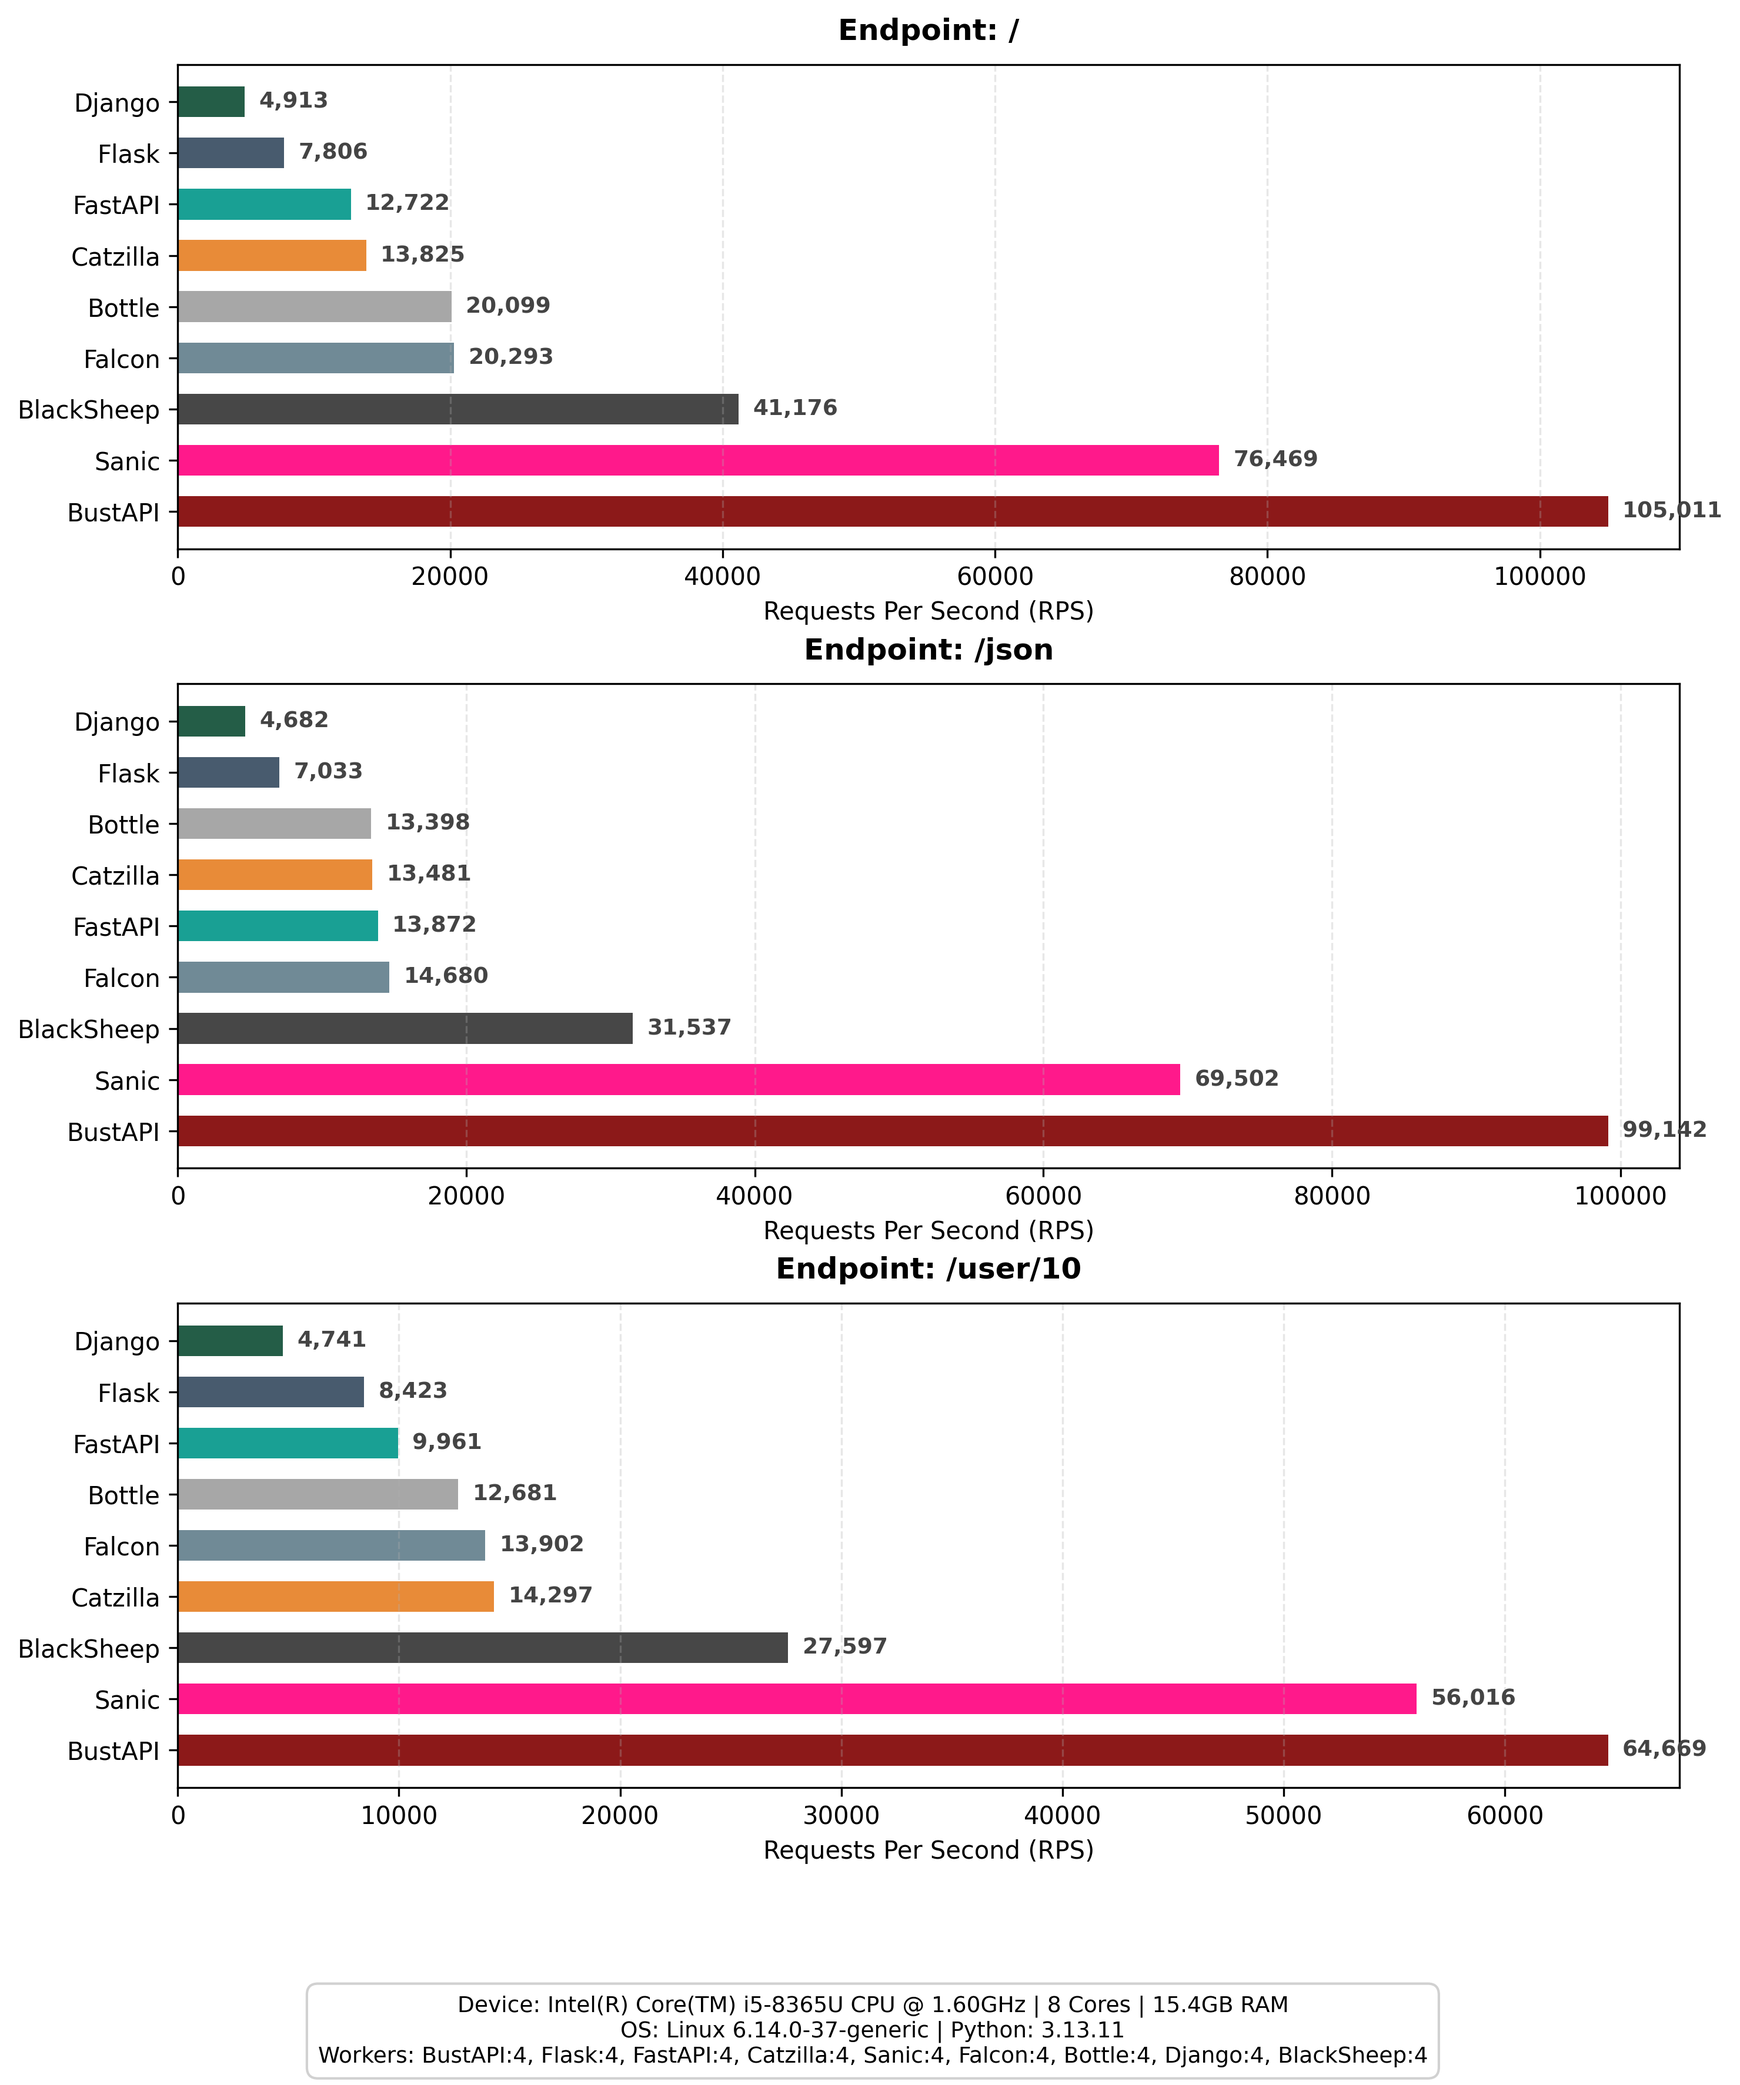
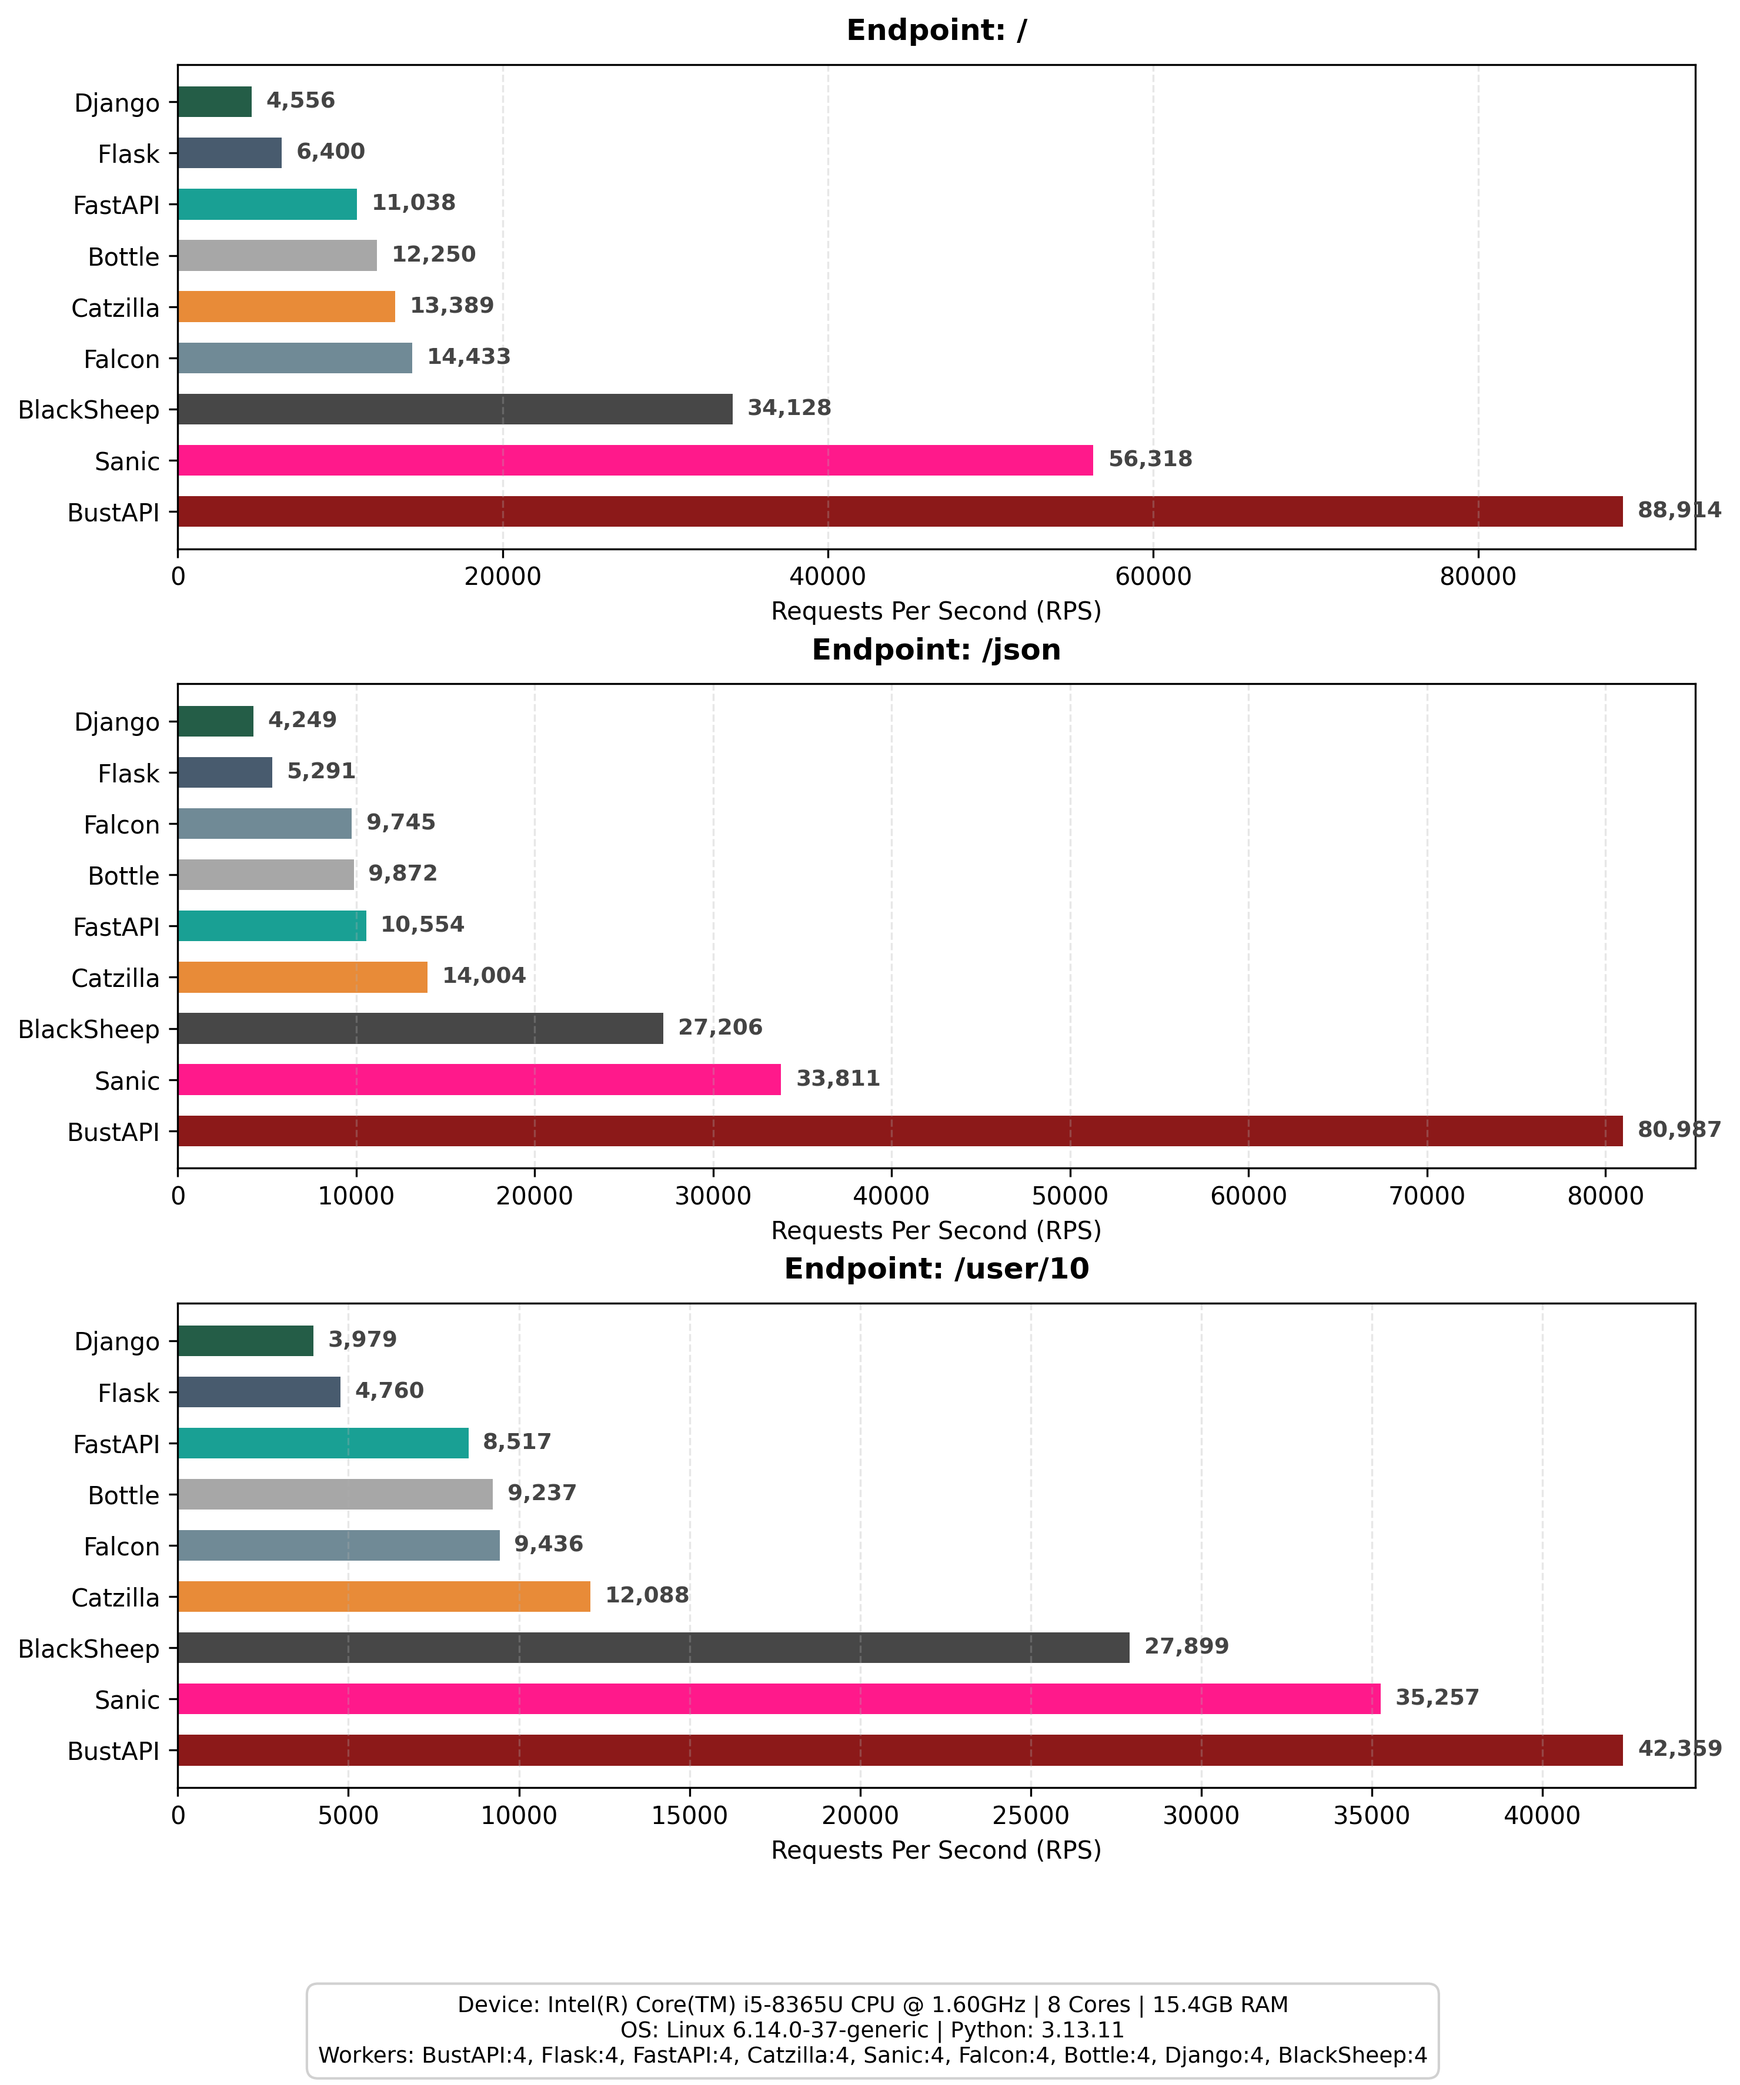
Update benchmark results

diff --git a/benchmarks/README.md b/benchmarks/README.md
@@ -1,6 +1,6 @@
 # ⚡ Ultimate Web Framework Benchmark
 
-> **Date:** 2026-01-15 | **Tool:** `wrk`
+> **Date:** 2026-01-20 | **Tool:** `wrk`
 
 ## 🖥 System Spec
 - **OS:** `Linux 6.14.0-37-generic`
@@ -12,26 +12,26 @@
 
 | Endpoint | Metrics | BustAPI (4w) | Catzilla (4w) | Flask (4w) | FastAPI (4w) | Sanic (4w) | Falcon (4w) | Bottle (4w) | Django (4w) | BlackSheep (4w) |
 | :--- | :--- | :---: | :---: | :---: | :---: | :---: | :---: | :---: | :---: | :---: |
-| **`/`** | 🚀 RPS | 🥇 **105,012** | **13,825** | **7,806** | **12,723** | **76,469** | **20,294** | **20,100** | **4,913** | **41,176** |
-|  | ⏱ Avg Latency | 1.00ms | 7.57ms | 12.69ms | 7.95ms | 1.32ms | 4.72ms | 4.86ms | 20.25ms | 2.48ms |
-|  | 📉 Max Latency | 22.09ms | 159.06ms | 34.53ms | 41.40ms | 9.84ms | 20.98ms | 10.19ms | 61.76ms | 33.85ms |
-|  | 📦 Transfer | 12.92 MB/s | 1.95 MB/s | 1.24 MB/s | 1.78 MB/s | 8.53 MB/s | 3.06 MB/s | 3.18 MB/s | 0.86 MB/s | 5.77 MB/s |
-|  | 🔥 CPU Usage | 376% | 96% | 384% | 393% | 385% | 380% | 381% | 365% | 374% |
-|  | 🧠 RAM Usage | 105.7 MB | 392.8 MB | 160.0 MB | 253.9 MB | 243.4 MB | 148.2 MB | 126.0 MB | 188.4 MB | 218.9 MB |
+| **`/`** | 🚀 RPS | 🥇 **88,914** | **13,389** | **6,401** | **11,038** | **56,319** | **14,433** | **12,250** | **4,557** | **34,128** |
+|  | ⏱ Avg Latency | 1.16ms | 8.80ms | 15.44ms | 9.11ms | 1.86ms | 6.68ms | 7.93ms | 21.62ms | 2.99ms |
+|  | 📉 Max Latency | 11.63ms | 256.67ms | 28.69ms | 47.14ms | 34.71ms | 23.22ms | 28.22ms | 38.97ms | 27.07ms |
+|  | 📦 Transfer | 10.94 MB/s | 1.89 MB/s | 1.01 MB/s | 1.55 MB/s | 6.28 MB/s | 2.17 MB/s | 1.94 MB/s | 0.80 MB/s | 4.78 MB/s |
+|  | 🔥 CPU Usage | 365% | 96% | 381% | 387% | 378% | 364% | 362% | 371% | 361% |
+|  | 🧠 RAM Usage | 114.6 MB | 381.9 MB | 159.2 MB | 253.3 MB | 243.1 MB | 148.0 MB | 125.9 MB | 187.8 MB | 217.9 MB |
 | | | --- | --- | --- | --- | --- | --- | --- | --- | --- |
-| **`/json`** | 🚀 RPS | 🥇 **99,142** | **13,481** | **7,033** | **13,873** | **69,503** | **14,681** | **13,398** | **4,682** | **31,538** |
-|  | ⏱ Avg Latency | 1.05ms | 13.61ms | 14.17ms | 7.09ms | 1.50ms | 6.54ms | 7.35ms | 21.79ms | 3.19ms |
-|  | 📉 Max Latency | 11.56ms | 443.81ms | 54.62ms | 27.00ms | 49.68ms | 17.81ms | 28.02ms | 88.41ms | 27.99ms |
-|  | 📦 Transfer | 11.82 MB/s | 1.45 MB/s | 1.09 MB/s | 1.88 MB/s | 7.42 MB/s | 2.28 MB/s | 2.08 MB/s | 0.81 MB/s | 4.27 MB/s |
-|  | 🔥 CPU Usage | 378% | 96% | 383% | 405% | 386% | 377% | 377% | 354% | 379% |
-|  | 🧠 RAM Usage | 105.7 MB | 745.1 MB | 160.1 MB | 255.2 MB | 243.5 MB | 148.2 MB | 126.2 MB | 188.4 MB | 219.4 MB |
+| **`/json`** | 🚀 RPS | 🥇 **80,988** | **14,005** | **5,292** | **10,554** | **33,811** | **9,745** | **9,872** | **4,249** | **27,207** |
+|  | ⏱ Avg Latency | 1.24ms | 7.19ms | 18.59ms | 9.78ms | 2.99ms | 9.70ms | 9.80ms | 23.28ms | 3.76ms |
+|  | 📉 Max Latency | 5.89ms | 145.99ms | 43.33ms | 88.63ms | 23.47ms | 19.75ms | 21.25ms | 56.94ms | 31.43ms |
+|  | 📦 Transfer | 9.65 MB/s | 1.51 MB/s | 0.82 MB/s | 1.43 MB/s | 3.61 MB/s | 1.51 MB/s | 1.53 MB/s | 0.74 MB/s | 3.68 MB/s |
+|  | 🔥 CPU Usage | 377% | 97% | 375% | 392% | 367% | 361% | 377% | 362% | 366% |
+|  | 🧠 RAM Usage | 114.9 MB | 755.5 MB | 159.3 MB | 254.4 MB | 243.2 MB | 148.2 MB | 126.2 MB | 188.1 MB | 218.5 MB |
 | | | --- | --- | --- | --- | --- | --- | --- | --- | --- |
-| **`/user/10`** | 🚀 RPS | 🥇 **64,669** | **14,297** | **8,424** | **9,962** | **56,016** | **13,902** | **12,682** | **4,742** | **27,598** |
-|  | ⏱ Avg Latency | 1.55ms | 10.47ms | 11.68ms | 10.34ms | 1.83ms | 7.08ms | 7.91ms | 20.79ms | 3.63ms |
-|  | 📉 Max Latency | 21.28ms | 329.88ms | 26.61ms | 97.68ms | 22.96ms | 30.56ms | 37.26ms | 39.41ms | 29.17ms |
-|  | 📦 Transfer | 7.52 MB/s | 2.02 MB/s | 1.29 MB/s | 1.32 MB/s | 5.82 MB/s | 2.12 MB/s | 1.94 MB/s | 0.81 MB/s | 3.66 MB/s |
-|  | 🔥 CPU Usage | 378% | 96% | 382% | 396% | 739% | 380% | 381% | 371% | 374% |
-|  | 🧠 RAM Usage | 107.7 MB | 1151.9 MB | 160.1 MB | 256.1 MB | 243.5 MB | 148.5 MB | 126.5 MB | 188.4 MB | 219.9 MB |
+| **`/user/10`** | 🚀 RPS | 🥇 **42,360** | **12,088** | **4,761** | **8,518** | **35,258** | **9,437** | **9,237** | **3,979** | **27,900** |
+|  | ⏱ Avg Latency | 2.33ms | 8.52ms | 20.76ms | 11.45ms | 2.81ms | 10.06ms | 10.44ms | 24.82ms | 3.59ms |
+|  | 📉 Max Latency | 7.67ms | 160.98ms | 36.82ms | 38.17ms | 21.63ms | 25.92ms | 24.67ms | 51.21ms | 18.73ms |
+|  | 📦 Transfer | 4.93 MB/s | 1.71 MB/s | 0.73 MB/s | 1.13 MB/s | 3.67 MB/s | 1.44 MB/s | 1.41 MB/s | 0.68 MB/s | 3.70 MB/s |
+|  | 🔥 CPU Usage | 381% | 96% | 379% | 394% | 379% | 365% | 373% | 377% | 382% |
+|  | 🧠 RAM Usage | 116.8 MB | 1089.5 MB | 159.3 MB | 255.4 MB | 243.2 MB | 148.3 MB | 126.5 MB | 188.1 MB | 219.1 MB |
 | | | --- | --- | --- | --- | --- | --- | --- | --- | --- |
 
 ## 📊 Performance Comparison

diff --git a/benchmarks/CACHE_BENCHMARK.md b/benchmarks/CACHE_BENCHMARK.md
@@ -2,15 +2,15 @@
 
 | Endpoint | Variant | RPS | Avg Latency |
 | :--- | :--- | :---: | :---: |
-| **/** | No Cache | 107,320 | 0.90ms |
-| | ⚡ Cached | **180,426** | **0.00ms** |
-| | *Improvement* | *+68.1%* | |
+| **/** | No Cache | 73,463 | 1.33ms |
+| | ⚡ Cached | **170,359** | **0.00ms** |
+| | *Improvement* | *+131.9%* | |
 | | | | |
-| **/json** | No Cache | 73,582 | 1.30ms |
-| | ⚡ Cached | **168,662** | **0.00ms** |
-| | *Improvement* | *+129.2%* | |
+| **/json** | No Cache | 72,315 | 1.33ms |
+| | ⚡ Cached | **154,317** | **0.00ms** |
+| | *Improvement* | *+113.4%* | |
 | | | | |
-| **/user/10** | No Cache | 68,675 | 1.39ms |
-| | ⚡ Cached | **151,022** | **0.00ms** |
-| | *Improvement* | *+119.9%* | |
+| **/user/10** | No Cache | 64,923 | 1.48ms |
+| | ⚡ Cached | **135,047** | **0.00ms** |
+| | *Improvement* | *+108.0%* | |
 | | | | |
